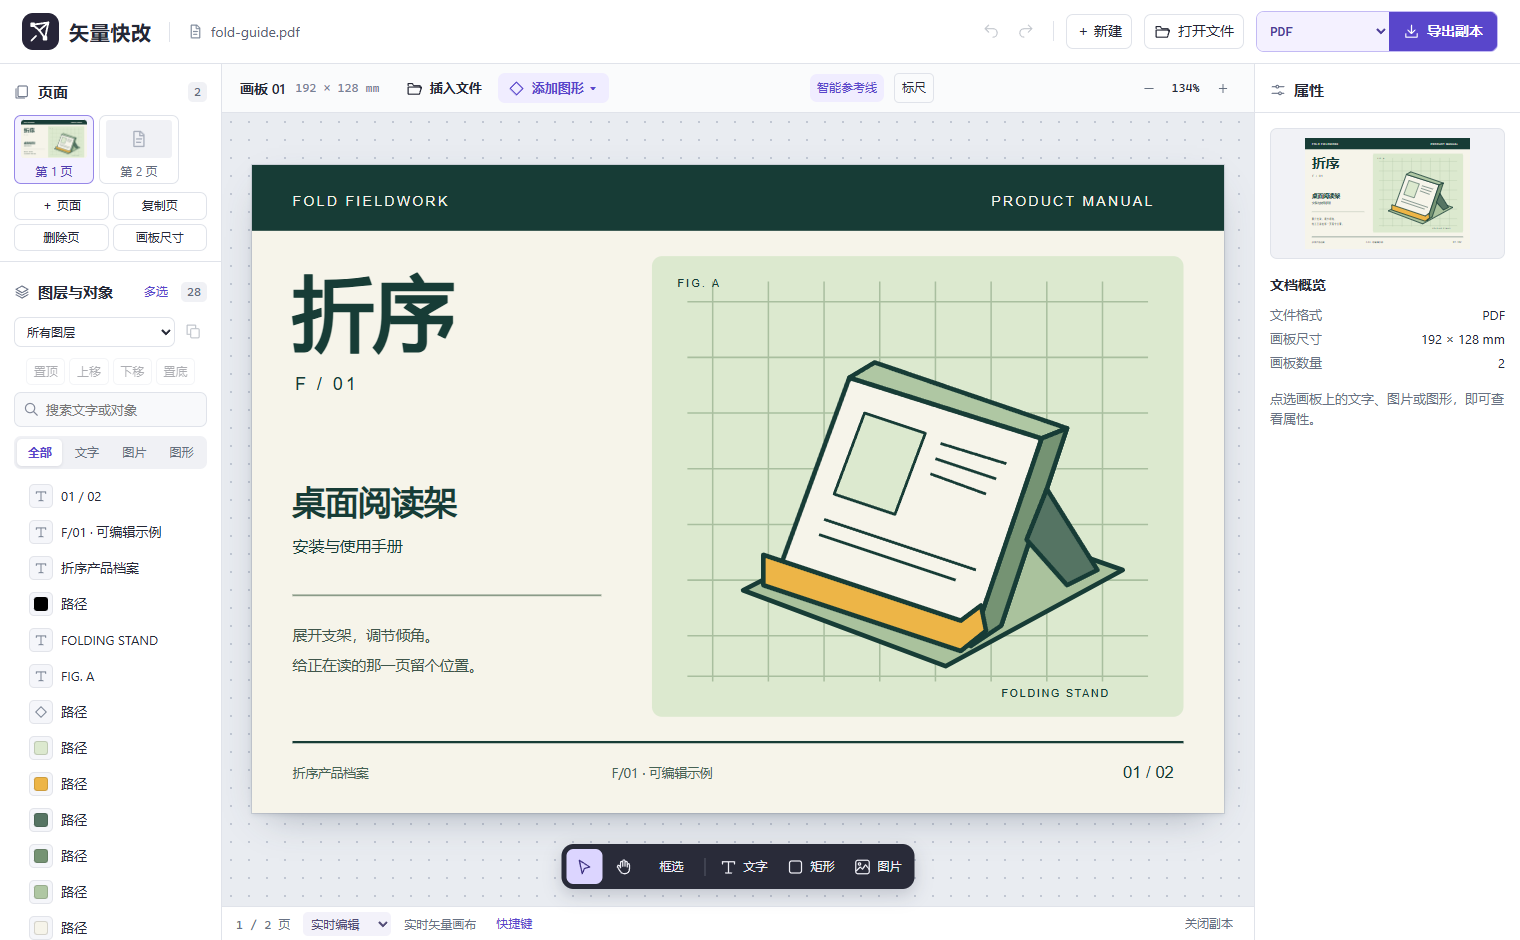
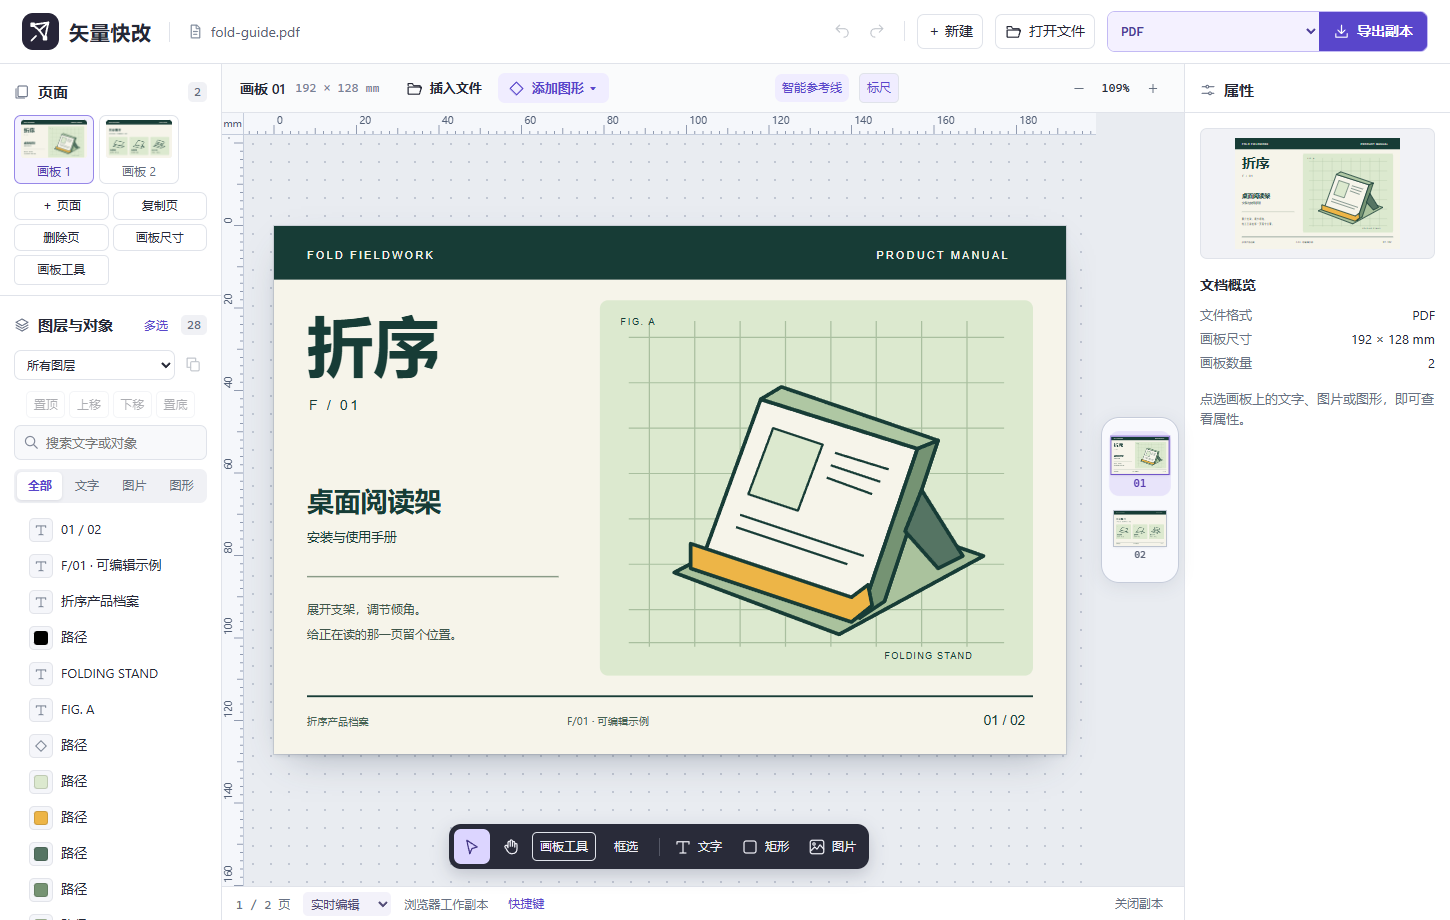
Add a scrollable thumbnail dock beside multi-page artboards

diff --git a/online/page-dock.js b/online/page-dock.js
@@ -1,0 +1,145 @@
+/* Page navigation beside the artboard. Keep a small raster cache and decode only
+   previews near the scroll window, including pages that have never been opened. */
+(() => {
+  const host=document.querySelector('.canvas-wrap');
+  const dock=document.createElement('nav');
+  dock.id='pageDock';dock.hidden=true;dock.setAttribute('aria-label','画布旁的页面缩略图');
+  dock.title='滚轮浏览缩略图，Shift + 滚轮切换页面';
+  const strip=document.createElement('div');strip.className='page-dock-strip';dock.append(strip);host.append(dock);
+
+  const entries=[],cache=new Map(),visible=new Set();
+  const mobile=matchMedia('(max-width:700px)'),reduced=matchMedia('(prefers-reduced-motion:reduce)');
+  let active=-1,loading=false,scheduled=false,draftTimer=0,draftVersion=0,draftRequested=false,switchedAt=-Infinity;
+
+  function tile(i){
+    const button=document.createElement('button'),card=document.createElement('span'),frame=document.createElement('span'),number=document.createElement('span');
+    button.type='button';button.className='page-dock-item';button.dataset.index=i;
+    card.className='page-dock-card';frame.className='page-dock-frame';number.className='page-dock-number';
+    frame.setAttribute('aria-hidden','true');number.setAttribute('aria-hidden','true');
+    card.append(frame,number);button.append(card);strip.append(button);observer.observe(button);
+    return {button,frame,number,board:null,painted:null,failed:false};
+  }
+  function bitmap(image,b){
+    const c=document.createElement('canvas'),scale=Math.min(136/b.w,108/b.h);
+    c.width=Math.max(1,Math.round(b.w*scale));c.height=Math.max(1,Math.round(b.h*scale));
+    const ctx=c.getContext('2d');ctx.fillStyle='#fff';ctx.fillRect(0,0,c.width,c.height);ctx.drawImage(image,0,0,c.width,c.height);
+    return c;
+  }
+  function show(entry,c){if(entry.painted!==c){entry.frame.replaceChildren(c);entry.painted=c;}}
+  function forget(entry){entry.frame.replaceChildren();entry.painted=null;}
+  async function load(entry){
+    const b=entry.board,token=b.token;
+    const art=$('art'),useCurrent=b.index===active&&art.complete&&art.naturalWidth&&art.getAttribute('src')===doc()?.preview;
+    let url;
+    try{
+      const img=useCurrent?art:new Image();
+      if(!useCurrent){url=URL.createObjectURL(VectorBrowser.artPreview(b.index));img.src=url;await img.decode();}
+      if(entry.board?.token!==token||!entry.button.isConnected||dock.hidden)return;
+      const c=bitmap(img,b);cache.set(token,c);
+      for(const key of cache.keys()){if(cache.size<=48)break;if(![...visible].some(e=>entries[+e.dataset.index]?.board?.token===key))cache.delete(key);}
+      if(!thumbs.has(b.index)&&thumbs.size<48){
+        const url=c.toDataURL();thumbs.set(b.index,url);const tile=$('pages').querySelector('[data-page="'+b.index+'"] .page-thumb');
+        if(tile&&!tile.querySelector('img')){const img=new Image();img.alt='';img.src=url;tile.replaceChildren(img);}
+      }
+      if(visible.has(entry.button)&&(!entry.painted||!layoutSteps.length||b.index!==active))show(entry,c);
+    }catch{if(entry.board?.token===token)entry.failed=true;}finally{if(url)URL.revokeObjectURL(url);}
+  }
+  function queue(){
+    if(loading||scheduled||dock.hidden)return;scheduled=true;
+    requestAnimationFrame(async()=>{
+      scheduled=false;if(loading||dock.hidden)return;
+      const targets=[...visible].map(b=>entries[+b.dataset.index]).filter(e=>e?.board);
+      targets.sort((a,b)=>Math.abs(a.board.index-active)-Math.abs(b.board.index-active));
+      for(const entry of targets){
+        const cached=cache.get(entry.board.token);
+        if(cached){if(!entry.painted)show(entry,cached);continue;}
+        if(entry.failed)continue;
+        loading=true;try{await load(entry);}finally{loading=false;queue();}return;
+      }
+    });
+  }
+  const observer=new IntersectionObserver(changes=>{
+    for(const change of changes){
+      const b=change.target,e=entries[+b.dataset.index];if(!e||e.button!==b)continue;
+      if(change.isIntersecting){e.failed=false;visible.add(b);if(e.board?.index===active&&layoutSteps.length)draftChanged();}
+      else{visible.delete(b);forget(e);}
+    }
+    queue();
+  },{root:strip,rootMargin:'28px'});
+
+  function reveal(i,animate=true){
+    const entry=entries[i];if(!entry||dock.hidden)return;
+    const b=entry.button.getBoundingClientRect(),s=strip.getBoundingClientRect(),horizontal=mobile.matches;
+    const start=horizontal?b.left-s.left:b.top-s.top,end=horizontal?b.right-s.right:b.bottom-s.bottom;
+    const delta=start<4?start-4:end>-4?end+4:0;
+    if(delta)strip.scrollBy({[horizontal?'left':'top']:delta,behavior:animate&&!reduced.matches?'smooth':'instant'});
+  }
+  function sync(boards,index){
+    const enabled=boards.length>1;
+    dock.hidden=!enabled;host.classList.toggle('has-page-dock',enabled);
+    if(!enabled){
+      if(!entries.length)return;
+      clearTimeout(draftTimer);draftVersion++;
+      observer.disconnect();visible.clear();cache.clear();entries.length=0;strip.replaceChildren();active=-1;return;
+    }
+    const previous=active;active=index;
+    while(entries.length>boards.length){const e=entries.pop();observer.unobserve(e.button);visible.delete(e.button);e.button.remove();}
+    const valid=new Set();
+    for(const b of boards){
+      let e=entries[b.index];if(!e){e=tile(b.index);entries.push(e);}
+      valid.add(b.token);
+      if(e.board?.token!==b.token){forget(e);e.failed=false;}
+      if(e.board?.token!==b.token||e.board.name!==b.name){
+        e.button.title='第 '+(b.index+1)+' 页 · '+b.name;e.button.setAttribute('aria-label',e.button.title);
+        e.number.textContent=String(b.index+1).padStart(2,'0');
+        const fit=Math.min(52/b.w,42/b.h);
+        e.frame.style.width=Math.max(3,b.w*fit)+'px';e.frame.style.height=Math.max(3,b.h*fit)+'px';
+      }
+      e.board=b;
+      if(b.index===active)e.button.setAttribute('aria-current','page');else e.button.removeAttribute('aria-current');
+    }
+    for(const key of cache.keys())if(!valid.has(key))cache.delete(key);
+    if(previous!==active){clearTimeout(draftTimer);draftVersion++;requestAnimationFrame(()=>reveal(active,previous>=0));}
+    if(!layoutSteps.length&&entries[active]?.painted&&cache.has(entries[active].board.token)&&visible.has(entries[active].button))show(entries[active],cache.get(entries[active].board.token));
+    queue();
+  }
+
+  // Keep transforms and typing on the main canvas independent of thumbnail work.
+  function draftChanged(){
+    clearTimeout(draftTimer);const version=++draftVersion;
+    if(!layoutSteps.length||dock.hidden||active<0)return;
+    const e=entries[active];if(!e||!visible.has(e.button))return;
+    const token=e.board.token,valid=()=>version===draftVersion&&entries[active]===e&&e.board.token===token&&visible.has(e.button)&&!dock.hidden&&layoutSteps.length;
+    draftTimer=setTimeout(async()=>{
+      if(!valid())return;
+      if(working||drag||pan||window.CanvasType?.active||draftRequested){draftChanged();return;}
+      draftRequested=true;
+      try{const im=await BoardSampler.snapshot(valid,{width:136,height:108});
+        if(im&&valid())show(e,bitmap(im,e.board));
+      }catch{/* The committed thumbnail remains available while a draft is being prepared. */}
+      finally{draftRequested=false;}
+    },800);
+  }
+
+  async function go(i,keyboard=false){
+    if(working||!doc()||!entries[i]||i===doc().page||!allowLeave())return;
+    await run('正在切换画板…',()=>api('page',{page:i}),'inline');
+    if(keyboard&&doc()?.page===i)entries[i]?.button.focus({preventScroll:true});
+  }
+  strip.addEventListener('click',e=>{const item=e.target.closest('.page-dock-item');if(item)go(+item.dataset.index);});
+  strip.addEventListener('keydown',e=>{
+    const item=e.target.closest('.page-dock-item');if(!item)return;const i=+item.dataset.index;
+    if(e.key===' '||e.key==='Enter'){e.preventDefault();e.stopPropagation();if(!e.repeat)go(i,true);return;}
+    const keys={ArrowUp:i-1,ArrowLeft:i-1,ArrowDown:i+1,ArrowRight:i+1,Home:0,End:entries.length-1};
+    if(!(e.key in keys))return;e.preventDefault();e.stopPropagation();go(Math.max(0,Math.min(entries.length-1,keys[e.key])),true);
+  });
+  strip.addEventListener('wheel',e=>{
+    e.stopPropagation();e.preventDefault();const horizontal=mobile.matches;
+    const raw=Math.abs(e.deltaX)>Math.abs(e.deltaY)?e.deltaX:e.deltaY;if(!raw)return;
+    if(e.shiftKey){if(performance.now()-switchedAt>260&&!working){switchedAt=performance.now();go(active+Math.sign(raw));}return;}
+    const amount=raw*(e.deltaMode===1?16:e.deltaMode===2?(horizontal?strip.clientWidth:strip.clientHeight):1);
+    if(horizontal)strip.scrollLeft+=amount;else strip.scrollTop+=amount;
+  },{passive:false});
+  new ResizeObserver(()=>{if(strip.clientWidth&&strip.clientHeight)requestAnimationFrame(()=>reveal(active,false));}).observe(strip);
+  window.PageDock={sync,draftChanged};sync(VectorBrowser.artboards(),doc()?.page);
+})();

diff --git a/online/board-sampler.js b/online/board-sampler.js
@@ -35,22 +35,23 @@
     for(const [k,v] of Object.entries({x:0,y:0,width:w,height:h}))copy.setAttribute(k,v);
     return copy;
   }
-  async function snapshot(s){
+  async function snapshot(isCurrent,limit){
     // Let any pending input paint finish before capturing a draft.
     await new Promise(ok=>requestAnimationFrame(()=>requestAnimationFrame(ok)));
-    if(session!==s)return;
+    if(!isCurrent())return;
     const d=doc(),art=$('art');
     if(!layoutSteps.length){await art.decode();return art;}
     if(layoutBase?.length&&!activeScene){await ensureVectorScene();
-      if(!activeScene&&session===s)await new Promise(ok=>{const obs=new MutationObserver(()=>{if(activeScene||session!==s)done();});
+      if(!activeScene&&isCurrent())await new Promise(ok=>{const obs=new MutationObserver(()=>{if(activeScene||!isCurrent())done();});
         const end=setTimeout(done,3500);function done(){clearTimeout(end);obs.disconnect();ok();}obs.observe(paper,{attributes:true,attributeFilter:['class']});});}
-    if(session!==s)return;
+    if(!isCurrent())return;
     const live=activeScene?.key===d.preview?activeScene.svg:null;
     if(!live&&layoutBase?.length&&layoutSteps.some(step=>step.some(m=>!isLocalItem(m.id))))throw Error('当前画板的矢量预览尚未就绪，请稍后再取色。');
     const svg=VectorModel.make('svg',{width:d.width+'mm',height:d.height+'mm',viewBox:'0 0 '+d.width+' '+d.height});
     if(live)svg.append(layerCopy(live,d.width,d.height));
     else svg.append(layerCopy(VectorModel.parse(VectorBrowser.scene()),d.width,d.height));
     for(const layer of [fallbackTextOverlay,localOverlay])if(layer.childElementCount)svg.append(layerCopy(layer,d.width,d.height));
+    if(limit){const k=Math.min(limit.width/d.width,limit.height/d.height);svg.setAttribute('width',Math.max(1,Math.round(d.width*k)));svg.setAttribute('height',Math.max(1,Math.round(d.height*k)));}
     const url=URL.createObjectURL(new Blob([VectorModel.xml(svg)],{type:'image/svg+xml'}));
     try{const img=new Image();img.src=url;await img.decode();return img;}finally{URL.revokeObjectURL(url);}
   }
@@ -60,7 +61,7 @@
     clearTimeout(layoutTimer);
     const s={kind,preview:doc().preview,selection:JSON.stringify(pickedIds()),ids:targets(kind).map(o=>o.id),trigger,canvas:document.createElement('canvas')};
     session=s;surface.hidden=banner.hidden=false;paper.classList.add('sampling-color');banner.firstChild.textContent='点选画板颜色 → '+labels[kind];surface.focus({preventScroll:true});
-    s.ready=snapshot(s).then(img=>{if(session===s){s.img=img;if(s.pointer)show(s,...s.pointer);}}).catch(()=>{if(session===s){stop();error('无法读取当前画板的颜色，请等待预览完成后再试。');}});
+    s.ready=snapshot(()=>session===s).then(img=>{if(session===s){s.img=img;if(s.pointer)show(s,...s.pointer);}}).catch(()=>{if(session===s){stop();error('无法读取当前画板的颜色，请等待预览完成后再试。');}});
   }
   function sample(s,x,y){
     const r=paper.getBoundingClientRect(),v=$('viewport').getBoundingClientRect();
@@ -96,5 +97,5 @@
   banner.lastChild.onclick=()=>{stop();$('message').textContent='已取消取色';};
   document.addEventListener('keydown',e=>{if(!session)return;if(e.key==='Escape'){e.preventDefault();e.stopImmediatePropagation();const from=session.trigger;banner.lastChild.click();if(from.offsetParent)from.focus({preventScroll:true});}else if(e.key==='Tab'||e.ctrlKey||e.metaKey){stop();}else e.stopImmediatePropagation();},true);
   document.addEventListener('pointerdown',e=>{if(session&&!surface.contains(e.target)&&!banner.contains(e.target))stop();},true);
-  window.BoardSampler={update,get active(){return !!session;}};update();
+  window.BoardSampler={update,snapshot,get active(){return !!session;}};update();
 })();

diff --git a/online/page-dock.css b/online/page-dock.css
@@ -1,0 +1,39 @@
+/* Keep the navigation beside the editing viewport, clear of page content and rulers. */
+.canvas-wrap.has-page-dock{--page-dock-right:88px;--page-dock-top:0px}
+.has-page-dock #viewport{right:var(--page-dock-right);top:var(--page-dock-top)}
+.has-page-dock.show-rulers #viewport{top:calc(var(--page-dock-top) + var(--ruler-size))}
+.has-page-dock #boardRulers{right:var(--page-dock-right);top:var(--page-dock-top)}
+.has-page-dock #dock{left:calc((100% - var(--page-dock-right))/2)}
+.has-page-dock #pickBanner{top:calc(var(--page-dock-top) + 12px)}
+.has-page-dock.show-rulers #pickBanner{top:calc(var(--page-dock-top) + var(--ruler-size) + 12px)}
+.has-page-dock #sampleBanner{top:calc(var(--page-dock-top) + 36px)}
+#pageDock{position:absolute;z-index:3;right:5px;top:50%;transform:translateY(-50%);display:flex;max-height:calc(100% - 30px);width:78px;
+  border:1px solid #c6ccda;border-radius:18px;background:rgba(249,250,254,.94);box-shadow:0 4px 16px #242d4b17,inset 0 1px 0 #fff;backdrop-filter:blur(12px)}
+#pageDock[hidden],.board-overview #pageDock{display:none}
+.page-dock-strip{display:flex;flex-direction:column;gap:0;width:100%;padding:9px 5px;overflow-x:hidden;overflow-y:auto;overscroll-behavior:contain;scrollbar-width:thin;scrollbar-color:#b5b8cb transparent;touch-action:pan-y}
+.page-dock-item{--dock-scale:1;flex:0 0 73px;position:relative;display:grid;place-items:center;min-width:0;min-height:0;width:100%;padding:0;border:0;border-radius:10px;background:transparent;color:#5d6578;outline-offset:-2px}
+#pageDock .page-dock-item:hover{background:transparent}
+.page-dock-card{width:56px;height:59px;display:flex;flex-direction:column;align-items:center;justify-content:center;gap:3px;border-radius:9px;
+  transform:scale(var(--dock-scale));transition:transform 170ms cubic-bezier(.2,.75,.25,1),background-color 140ms,color 140ms;pointer-events:none}
+.page-dock-frame{display:grid;place-items:center;background:#fff;outline:1px solid #bcc3cf;box-shadow:0 1px 3px #28304724;overflow:hidden}
+.page-dock-frame canvas{width:100%;height:100%;display:block}
+.page-dock-number{font:600 10px/1.2 var(--mono,monospace);font-variant-numeric:tabular-nums}
+.page-dock-item[aria-current=page]{--dock-scale:1.10;color:#5639af}
+.page-dock-item[aria-current=page] .page-dock-card{background:#e8e4fa}
+.page-dock-item[aria-current=page] .page-dock-frame{outline:1.5px solid #7155c8}
+.page-dock-item:focus-visible{outline:2px solid #745acc}
+@media(hover:hover) and (pointer:fine){
+  #pageDock .page-dock-item:hover{--dock-scale:1.20;z-index:1}
+  .page-dock-item:hover + .page-dock-item:not([aria-current]),.page-dock-item:not([aria-current]):has(+ .page-dock-item:hover){--dock-scale:1.06}
+}
+@media(max-width:700px){
+  .canvas-wrap.has-page-dock{--page-dock-right:0px;--page-dock-top:78px}
+  #pageDock{top:4px;left:50%;right:auto;transform:translateX(-50%);width:max-content;max-width:calc(100% - 14px);max-height:none;border-radius:14px}
+  .page-dock-strip{flex-direction:row;width:auto;max-width:100%;padding:4px 7px;overflow-x:auto;overflow-y:hidden;touch-action:pan-x}
+  .page-dock-item{width:64px;flex-basis:64px;height:57px}.page-dock-card{width:51px;height:50px}.page-dock-frame{max-height:34px;max-width:46px}.page-dock-frame canvas{object-fit:contain}
+}
+@media(prefers-reduced-motion:reduce){
+  .page-dock-card{transition:none}
+  #pageDock .page-dock-item:hover,.page-dock-item:not([aria-current]):has(+ .page-dock-item:hover),.page-dock-item:hover + .page-dock-item:not([aria-current]){--dock-scale:1}
+  #pageDock .page-dock-item[aria-current=page]{--dock-scale:1.10}
+}

diff --git a/docs/usage.md b/docs/usage.md
@@ -54,3 +54,7 @@
 ### 画板吸管
 
 先选中要改色的文字或图形，在填充或描边旁点吸管，再点击画板上的目标颜色。取样使用该点的显示色，包括照片、渐变和透明色叠加在画板背景后的结果。多选时可将同一颜色一次应用到所选对象；渐变起点、终点和投影也有独立吸管。按 Esc 可取消。
+
+### 画布旁的多页预览
+
+打开多页文件时，画布右侧会显示页面缩略栏。滚轮浏览缩略图，单击切页，Shift + 滚轮直接翻页。选中页稍微放大，鼠标靠近时邻页也会轻微响应。窄屏改为画布上方的横向栏，支持滑动。键盘聚焦在缩略图时可用方向键或 Home / End 切换。
